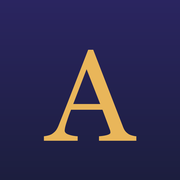
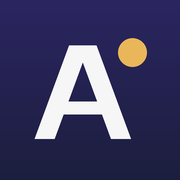
web: the Alert A mark, and Celo's symbol in the status bar
Albashi's mark is a geometric A, cut flat at apex and feet, with the gold dot
a lock screen puts on an app that just got paid (gold means a credit, as on
the rest of the page). It replaces the serif letter as favicon, app icon,
touch icon, the status-bar brand, the top alert's app icon and in the link
preview. One geometry drives the SVG and every raster.

A double-barred A was considered and dropped: it is the austral sign, also
used for Cardano's ADA.

The status bar's network label carries Celo's own symbol, its path taken
verbatim from celo-org/docs favicon.svg, drawn in the text colour.

Gate: lint (0 warnings), typecheck, test (8 pass) and build pass.

Changed region(s): [[0.1944, 0.25, 0.7778, 0.8056], [0.6389, 0.1944, 0.8333, 0.3889]]

diff --git a/apps/web/app/globals.css b/apps/web/app/globals.css
@@ -71,9 +71,10 @@ a { color: inherit; text-decoration: none; }
   align-items: center;
   white-space: nowrap;
 }
-.brand { font-size: calc(38 * var(--u)); font-weight: 600; letter-spacing: 0.04em; }
+.brand { font-size: calc(38 * var(--u)); font-weight: 600; letter-spacing: 0.04em; gap: calc(14 * var(--u)); }
+.brand-mark { width: calc(44 * var(--u)); height: calc(44 * var(--u)); flex: none; }
 .network { font-size: calc(30 * var(--u)); gap: calc(16 * var(--u)); justify-content: flex-start; }
-.globe { width: calc(34 * var(--u)); height: calc(34 * var(--u)); flex: none; }
+.celo-mark { width: calc(30 * var(--u)); height: calc(30 * var(--u)); flex: none; }
 .nav { font-size: calc(30 * var(--u)); justify-content: space-between; }
 .net-short { display: none; }
 
@@ -140,10 +141,9 @@ a.card-in:focus-visible { outline: calc(4 * var(--u)) solid #fff; outline-offset
   place-items: center;
   border-radius: calc(22 * var(--u));
   background: linear-gradient(160deg, #2a2560, var(--navy));
-  color: var(--credit-hi);
-  font-family: Georgia, 'Times New Roman', serif;
-  font-size: calc(78 * var(--u));
+  color: var(--ink-on-photo);
 }
+.app-mark { width: 80%; height: 80%; }
 .credit-icon, .declined-icon { display: grid; place-items: center; border-radius: 50%; }
 .credit-icon {
   background: radial-gradient(circle at 40% 35%, var(--credit-hi), var(--credit-lo));
@@ -212,7 +212,7 @@ a.card-in:focus-visible { outline: calc(4 * var(--u)) solid #fff; outline-offset
   .statusbar { grid-row: 1; grid-column: 1 / -1; margin: 0 calc(-1 * var(--gutter)); position: relative; }
   .brand { grid-area: brand; position: relative; font-size: calc(15 * var(--u)); }
   .network { grid-area: net; position: relative; justify-self: end; font-size: calc(11.5 * var(--u)); gap: calc(6 * var(--u)); }
-  .globe { width: calc(13 * var(--u)); height: calc(13 * var(--u)); }
+  .celo-mark { width: calc(12 * var(--u)); height: calc(12 * var(--u)); }
 
   .rate {
     grid-area: rate;
@@ -254,7 +254,9 @@ a.card-in:focus-visible { outline: calc(4 * var(--u)) solid #fff; outline-offset
     padding: calc(11 * var(--u)) calc(13 * var(--u)) calc(12 * var(--u)) calc(11 * var(--u));
   }
   .card-icon { width: calc(36 * var(--u)); height: calc(36 * var(--u)); margin-top: calc(2 * var(--u)); }
-  .app-icon { border-radius: calc(9 * var(--u)); font-size: calc(25 * var(--u)); }
+  .app-icon { border-radius: calc(9 * var(--u)); }
+  .brand { gap: calc(6 * var(--u)); }
+  .brand-mark { width: calc(18 * var(--u)); height: calc(18 * var(--u)); }
   .credit-icon { box-shadow: inset 0 0 0 calc(2 * var(--u)) #9a5f17; }
   .declined-icon { border-width: calc(1.5 * var(--u)); }
   .card-text { gap: calc(3 * var(--u)); }

diff --git a/apps/web/app/page.tsx b/apps/web/app/page.tsx
@@ -19,6 +19,7 @@ import {
   type Movement,
 } from './lib/proof';
 import Sections from './sections';
+import AlbashiMark from './mark';
 
 // Rendered on every request: the rate's "read" time must be the moment Textile was actually asked.
 export const dynamic = 'force-dynamic';
@@ -176,14 +177,20 @@ export default async function Home() {
       <div className="box r-wallpaper rate-scrim" aria-hidden="true" />
 
       <header className="box r-statusbar statusbar" />
-      <p className="box r-brand brand">ALBASHI</p>
+      <p className="box r-brand brand">
+        <AlbashiMark className="brand-mark" />
+        ALBASHI
+      </p>
       <p className="box r-network network">
-        <svg viewBox="0 0 24 24" aria-hidden="true" className="globe">
-          <circle cx="12" cy="12" r="9" fill="none" stroke="currentColor" strokeWidth="1.6" />
-          <path d="M3 12h18M12 3c3 3.2 3 14.8 0 18M12 3c-3 3.2-3 14.8 0 18" fill="none" stroke="currentColor" strokeWidth="1.6" />
+        {/* Celo's symbol, path verbatim from celo-org/docs favicon.svg (the official mark), drawn in the text colour. */}
+        <svg viewBox="0 0 384 383" role="img" aria-label="Celo" className="celo-mark">
+          <path
+            fill="currentColor"
+            d="M383.5,0H0.5v383h383V249.3h-63.6C298,298.1,248.7,332,192.3,332c-77.8,0-140.8-63.6-140.8-140.8C51.4,114,114.5,51,192.3,51C249.8,51,299.1,86,321,135.9h62.5V0z"
+          />
         </svg>
         <span className="net-long">Celo mainnet · </span>
-        <span className="net-short">Celo · </span>
+        <span className="net-short">mainnet · </span>
         {block === null ? 'not answering' : `block ${block.toLocaleString('en-US')}`}
       </p>
       <nav className="box r-nav nav" aria-label="Albashi">
@@ -206,7 +213,7 @@ export default async function Home() {
       <ol className="alerts" aria-label="Albashi's alerts, each a real Celo mainnet record">
         <Card
           id="alert-1"
-          icon="A"
+          icon={<AlbashiMark className="app-mark" />}
           iconClass="app-icon"
           time="now"
           body={

diff --git a/apps/web/app/mark.tsx b/apps/web/app/mark.tsx
@@ -1,0 +1,14 @@
+// Albashi's mark, "Alert A": a geometric A cut flat at apex and feet, a low heavy crossbar, and a gold dot,
+// the lock-screen badge for a payment that just landed (gold means a credit, as everywhere on the page).
+// Geometry is shared with app/icon.svg and the generated icons; the legs are separate paths because they are
+// mirror images, and one path would cancel their overlap at the apex.
+export default function AlbashiMark({ className, letter = 'currentColor' }: { className?: string; letter?: string }) {
+  return (
+    <svg viewBox="0 0 100 100" className={className} aria-hidden="true">
+      <path fill={letter} d="M11.55 84 L35.49 19 L49.35 19 L25.4 84 Z" />
+      <path fill={letter} d="M64.6 84 L40.65 19 L54.51 19 L78.45 84 Z" />
+      <rect x="27" y="58" width="36" height="9" fill={letter} />
+      <circle cx="79.5" cy="24" r="10" fill="var(--credit-hi)" />
+    </svg>
+  );
+}
